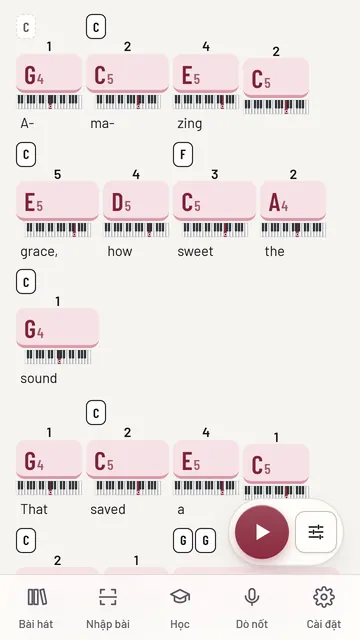
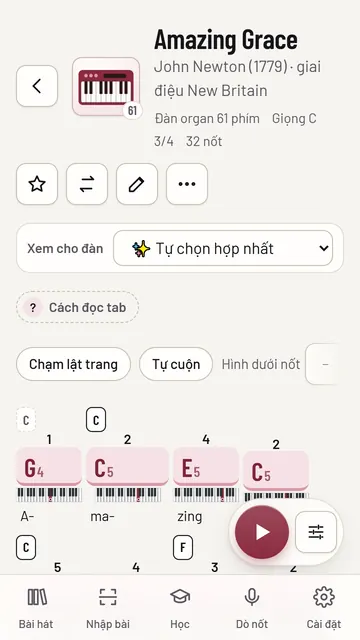
Ảnh Google Play "Bài hát" chụp từ đầu trang cho cả 7 app (thấy hình nhạc cụ, nút gọn, ô ghi chú, "Cách đọc tab" rồi tới tab), cập nhật ảnh trang giới thiệu; trang bài: ô chọn "Xem cho …" ghi "Tự chọn hợp nhất" cho khỏi bị cắt chữ, dòng gợi ý đổi hợp âm chuyển vào "Cách đọc tab" (organ: tab lên từ 46

diff --git a/src/pages/SongView.tsx b/src/pages/SongView.tsx
@@ -544,6 +544,7 @@ function SongPlayerView({ song, original, fit, view, choice, onChoice }: {
               <summary aria-label={lgText ? undefined : 'Mẹo'} title={lgText ? undefined : 'Mẹo'}>{lgText ? 'Cách đọc tab' : null}</summary>
               {lgText}
               {!sheetData && <span className="muted">Chạm vào nốt để nghe, hoặc chọn chỗ bắt đầu phát.</span>}
+              {showChords && !(fretted && sheet) && !sheetData && <span className="muted">Chạm vào tên hợp âm trên nốt để đổi. Viền đậm là hợp âm bạn đã chọn tay.</span>}
             </details>
           </div>
         );
@@ -609,7 +610,6 @@ function SongPlayerView({ song, original, fit, view, choice, onChoice }: {
           </div>
         );
       })()}
-      {showChords && !(fretted && sheet) && !sheetData && <p className="small muted">Chạm vào tên hợp âm trên nốt để đổi. Viền đậm là hợp âm bạn đã chọn tay.</p>}
 
       {waitMode && (
         <div className="wait-banner" role="status">
@@ -950,7 +950,7 @@ function ViewAsBar({ original, viewed, view, fit, choice, onChoice, onSaved }: {
             if (v === 'auto' || v === 'original') onChoice(v);
             else onChoice({ type: v as HarpType, key: isFixedKey(v as HarpType) ? recorderKey(v as HarpType) : key, mode: 'any' });
           }}>
-            <option value="auto">✨ Tự chọn {BRAND.noun} hợp nhất</option>
+            <option value="auto">✨ Tự chọn hợp nhất</option>
             <option value="original">Bản gốc ({harpName(original.harpKey, origType).replace(/^Kèn /, '')})</option>
             {SHOWN_HARP_TYPES.map((t) => <option key={t} value={t}>{HARP_TYPE_LABEL[t]}</option>)}
           </select>
